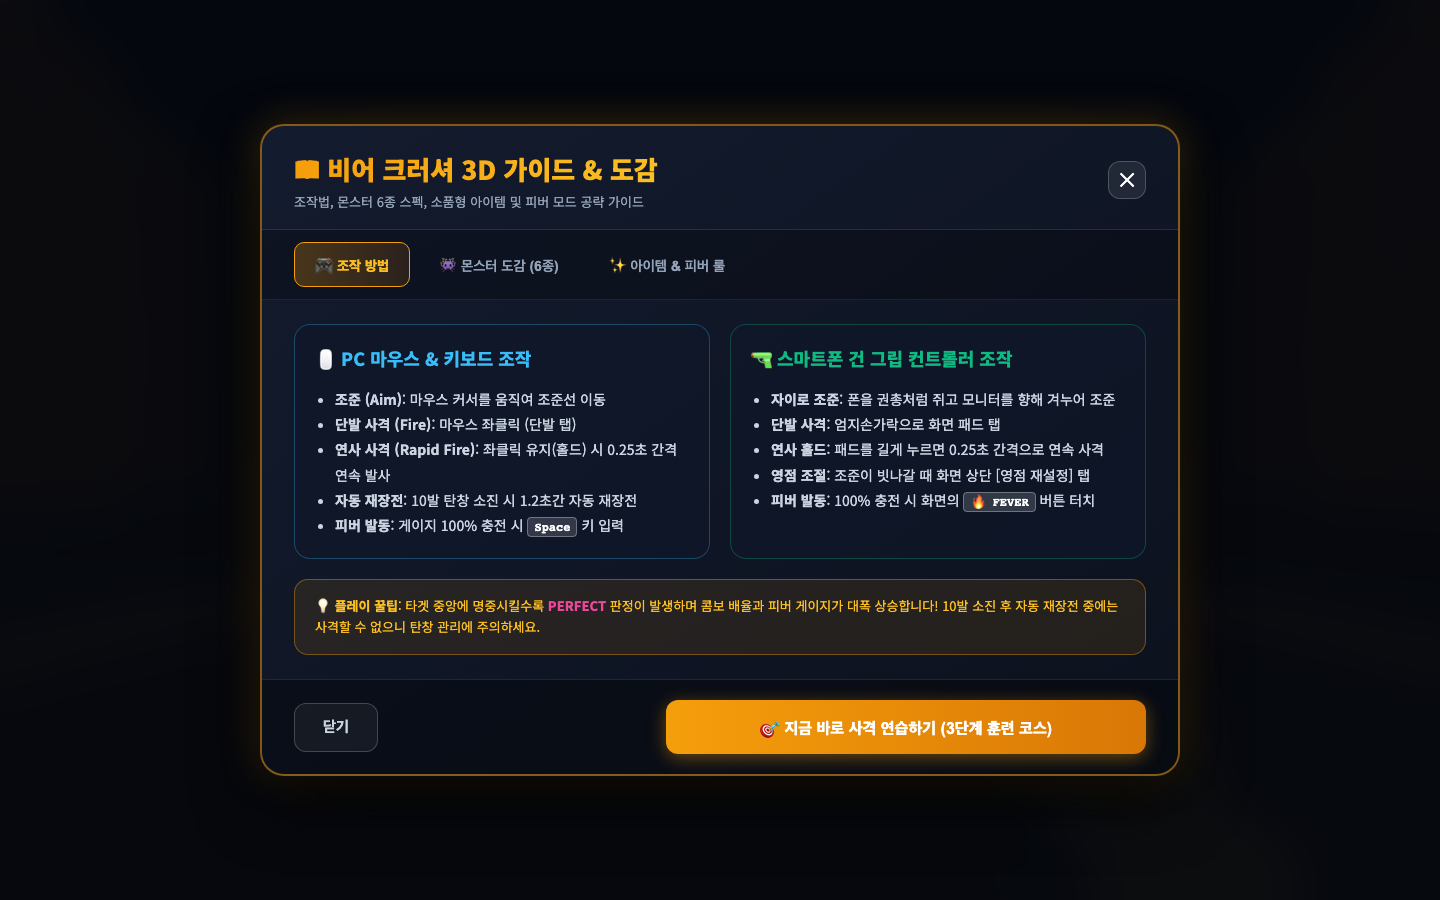
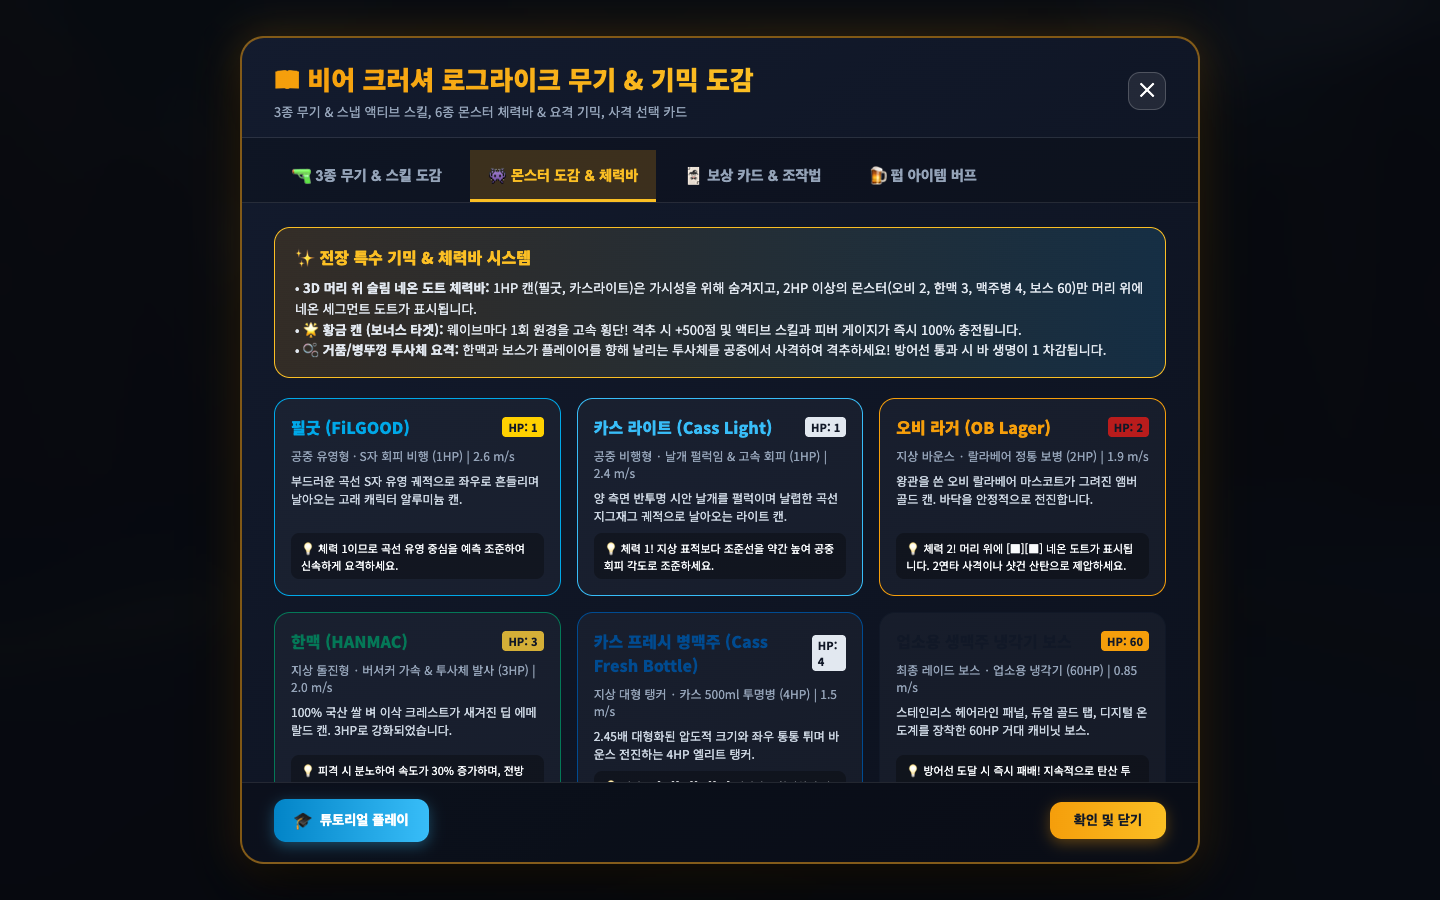
docs(screens): capture live 3D weapons, active skill physics FX, and guide modal tabs

Changed region(s): [[0.1562, 0.0311, 0.8438, 0.9644], [0.5938, 0.1867, 0.6875, 0.2178], [0.75, 0.1867, 0.8125, 0.2178]]

diff --git a/docs/무기_및_스킬_가이드.md b/docs/무기_및_스킬_가이드.md
@@ -18,6 +18,9 @@
  (근접산탄) (관통저격) (초고속연사)
 ```
 
+![시작 무기 사격 선택 3D 화면](./screens/screen-13a-starting-weapon-selection.png)
+![인게임 가이드 모달: 3종 무기 & 스킬 도감](./screens/screen-07a-guide-weapons.png)
+
 | 무기 종류 | 이름 | 컨셉 & 키워드 | 탄창 | 발사 간격 | 전용 액티브 스킬 |
 | :--- | :--- | :--- | :---: | :---: | :--- |
 | **`shotgun`** | **맥주관 뚫어뻥 샷건** | 근접 산탄 폭딜 & 넉백 밀쳐내기 | 5 ~ 7발 | 320 ~ 260ms | **사방 뚫어뻥 폭풍** (8방향 포물선 기절 폭격) |
@@ -46,17 +49,23 @@
 - **Lv.3 (호박색 맥주관)**: 총열 측면을 휘감는 투명 앰버 아크릴 맥주 호스(`TubeGeometry`) 내부에 맥주 거품 기포가 순환.
 - **Lv.4 MAX (쿼드 배럴 + 둔화 링)**: 4총열 다각 배럴 클러스터 + 전방 시안 네온 에너지 초크 링 점등.
 
+![맥주관 뚫어뻥 샷건 전투 화면 및 3D 네온 도트 체력바](./screens/screen-14-weapon-shotgun-battle.png)
+
 #### 2. 황금 병따개 리볼버 (`revolver`)
 - **Lv.1**: 황금 병따개 머즐 해머 + 6구 탄창 실린더.
 - **Lv.2 (헤비 롱배럴)**: 42cm 장총열 크롬 실린더 + 금박 각인 프레임.
 - **Lv.3 (시안 레이저 스코프)**: 총기 상단에 시안 네온 홀로그램 스코프 링 장착 + 전방 레이저 빔 방출.
 - **Lv.4 MAX (쿼드 머즐 브레이크)**: 4방향 가스 분출 포트 머즐 브레이크 + 발사 시 황금 스파크 폭발.
 
+![황금 병따개 리볼버 전투 화면](./screens/screen-15-weapon-revolver-battle.png)
+
 #### 3. 탄산 탭 개틀링 (`gatling`)
 - **Lv.1**: 6각 원형으로 배치된 6총열 묶음 + 사격 및 쿨다운 시 회전 애니메이션 (`rotation.z`).
 - **Lv.2 (카스 블루 쿨링 재킷)**: 카스 시안 블루 색상의 알루미늄 타공 방열 재킷 장착.
 - **Lv.3 (듀얼 탄산 드럼통)**: 하단 양 측면에 대용량 카스 생맥주 드럼통 탄창 2개 장착.
 - **Lv.4 MAX (12총열 아크 스파크)**: 2중 12총열 회전 클러스터 + 총구 끝단에 고압 플라즈마 탄산 스파크 점등.
+
+![탄산 탭 개틀링 전투 및 보스 레이드](./screens/screen-16-weapon-gatling-battle.png)
 
 ---
 
@@ -100,13 +109,19 @@
   - **몬스터 적중 시**: 몬스터 바디에 찰싹 달라붙어 `Math.sin(age * 45) * 0.14`로 부르르 떨리며 1.0~2.0초간 기절(Stun).
   - **빗나간 탄 (안전 물리)**: 절대로 플레이어 카메라 시야(z = 1~2)를 가리지 않고, 원경 펍 바닥(`y = -1.15`)에 도달하여 탄성 바운스(`vy = Math.abs(vy) * 0.42`) 후 회전 낙하 소멸.
 
+![사방 뚫어뻥 폭풍 액티브 스킬 시전 화면](./screens/screen-17-skill-plunger-storm.png)
+
 ### ② 리볼버: [오프너 불릿 타임 & 참격] (초정밀 회전 블레이드)
 - **물리 궤적**: 직경 1.5m의 대형 황금 병따개 블레이드가 수평으로 고속 회전(`rotation.y += dt * 26`)하며 타원형 부메랑 궤적으로 비행.
 - **효과**: 전 몬스터를 베고 지나가며 3.5~5.0초 동안 전체 전장을 40~60% 슬로우 모션 상태로 만듭니다.
 
+![오프너 부메랑 액티브 스킬 시전 화면](./screens/screen-18-skill-opener-boomerang.png)
+
 ### ③ 개틀링: [거품 해일 160도 오버히트] (탄산 파도)
 - **물리 궤적**: 총구에서 160도 부채꼴 각도로 55개 이상의 화이트/시안 거품 구체가 종파 진동 파도(`sin(dist * 1.5)`)를 그리며 전방으로 쇄도.
 - **효과**: 전방의 모든 몬스터를 1.0~1.4m 뒤로 밀어내고 둔화시킵니다.
+
+![거품 해일 액티브 스킬 시전 화면](./screens/screen-19-skill-foam-tsunami.png)
 
 ### ④ 2회 스택 시스템 (MAX 레벨 도달 시)
 - MAX(Lv.4) 레벨에 도달하면 스킬 최대 스톡이 1회에서 **2회(`[★][★]`)**로 증가합니다.
@@ -118,6 +133,9 @@
 
 ### ① 웨이브 클리어 사격 선택 카드 4종
 웨이브 종료 시 펍 공간 중앙에 3장의 홀로그램 카드가 소환되며, 원하는 카드에 조준선을 두고 사격하여 획득합니다.
+
+![웨이브 클리어 사격 선택 3D 보상 카드](./screens/screen-20-reward-cards-selection.png)
+![가이드 모달: 보상 카드 & 조작법](./screens/screen-09-guide-modal-cards-controls.png)
 
 1. **무기 레벨업 (Weapon Level Up)**: 현재 장착 무기 레벨 +1 (화력 증폭 및 3D 외형 진화)
 2. **고속 장전 (Rapid Reload)**: 재장전 속도 25% 가속 & 탄창 +2발 확장
